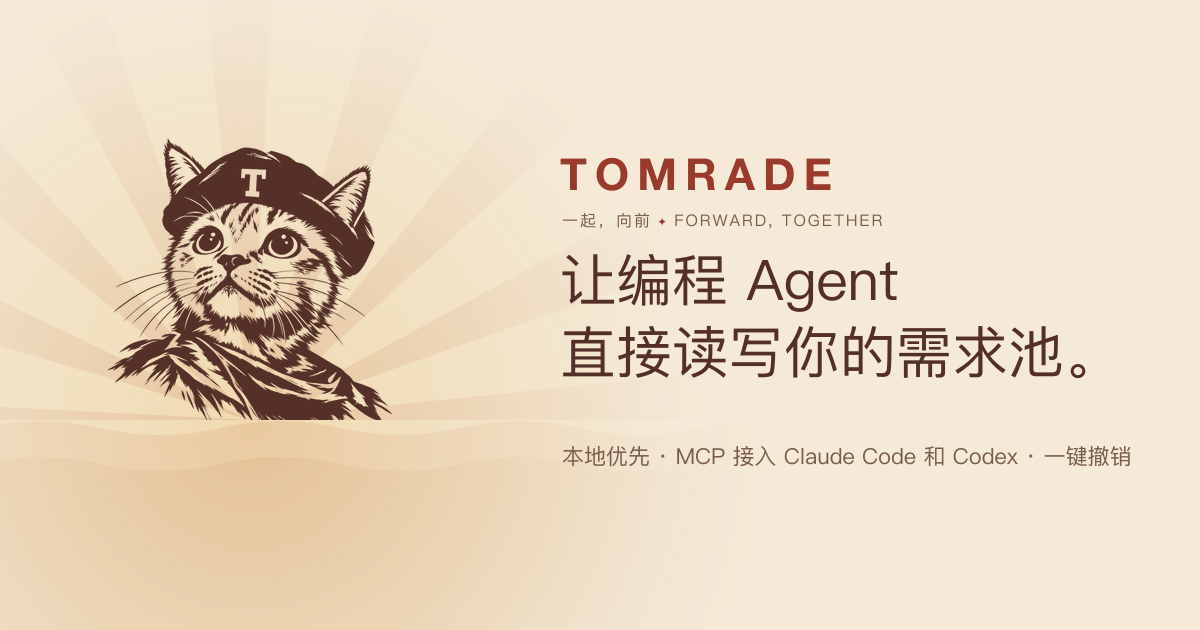
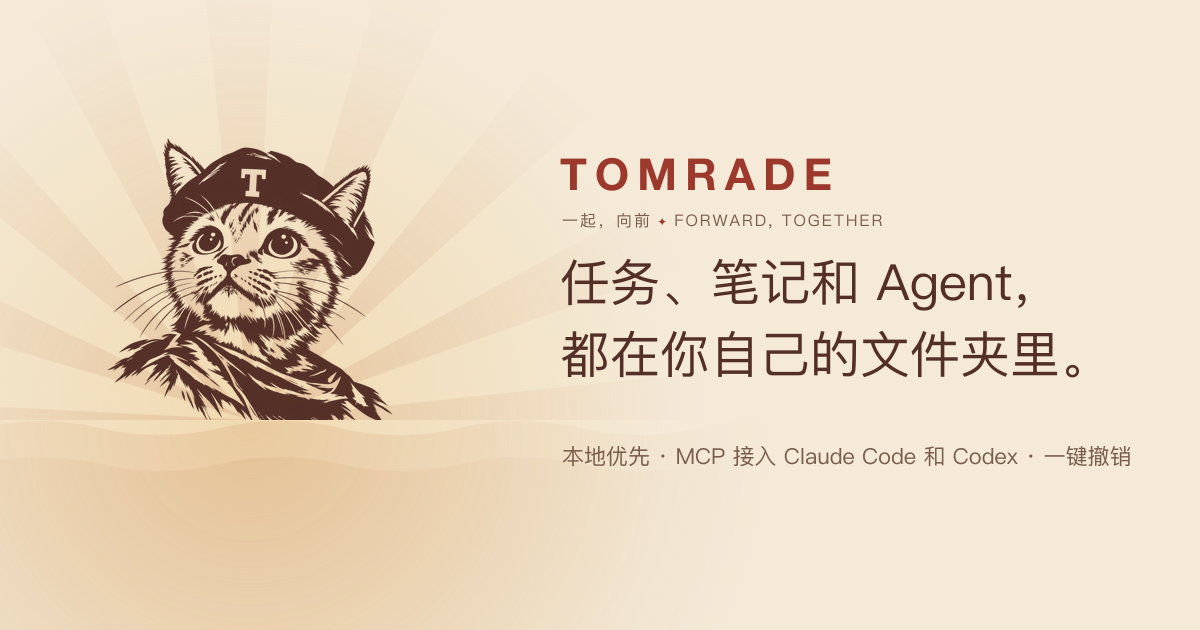
The README follows tomrade.com again: its sections, its wording and its latest images

Changed region(s): [[0.4625, 0.3921, 0.925, 0.6032]]

diff --git a/README.md b/README.md
@@ -1,5 +1,5 @@
 <p align="center">
-  <img src="docs/images/banner.png" alt="Tomrade: the backlog your coding agents can read and write. Local-first, Claude Code and Codex over MCP, undo any run." width="820">
+  <img src="docs/images/banner.png" alt="Tomrade: tasks, notes and agents, in one folder you own. Local-first, Claude Code and Codex over MCP, undo any run." width="820">
 </p>
 
 <p align="center">
@@ -21,9 +21,9 @@
 
 **Tom + comrade.** Tasks, notes and agents, in one folder you own.
 
-Your agents work at **3 a.m.** They read your tickets, edit your notes, and now and then rewrite **everything you own**. Tomrade is the workspace built for them, with **an undo button built for you**.
+Your agents work at **3 a.m.** They read your tickets, edit your notes, and now and then rewrite **everything you own.** Tomrade is the workspace built for them, with **an undo button built for you.**
 
-It's a local-first desktop app for solo makers and tiny teams. Run a codebase, your week, a journal or a shelf of docs from the same place. Say one sentence and the assistant drafts the whole backlog; hand a ticket to Claude Code, Codex or whichever coding agent you already use; undo any agent run in one click.
+It's a local-first workspace for solo makers and tiny teams. Run a codebase, your week, a journal or a shelf of docs from the same app. Say one sentence and the assistant drafts the whole backlog; hand a ticket to Claude Code, Codex or whichever coding agent you use; undo any agent run in one click.
 
 <p align="center">
   <img src="docs/images/board.png" alt="Tomrade's board: a sidebar of views and workstreams, ticket cards in Backlog and To Do columns, and the assistant panel on the right." width="900">
@@ -32,29 +32,85 @@ It's a local-first desktop app for solo makers and tiny teams. Run a codebase, y
 > [!NOTE]
 > **Preview.** Until 1.0, Tomrade is in development and testing: things change from week to week and you will hit rough edges. Your projects are plain folders on your own disk, so back up the ones that matter.
 
+## Not just for code
+
+Every project is a board plus a folder of files. Connect it to a repository, or fill it with nothing but your week.
+
+- **Ship software.** Talk a feature into tickets sized for one pull request, then let Claude Code or Codex build each one on its own branch.
+- **Run your week.** Errands, chores and plans on a board or a table. Brain-dump to the assistant and it sorts the mess into tasks.
+- **Keep a journal.** Today's note opens a dated page in your Journal folder. Tag the days and link them with `[[wiki links]]`.
+- **Write docs.** Markdown with a live preview, backlinks and full-text search. Every save is versioned and can sync to a GitHub repo.
+
 ## What's in the box
 
-**🗣 From a sentence to a pull request.** Describe what you want in plain words. The assistant asks what it needs to know, drafts epics and features sized for one PR, checks them against what already exists, and points out what's missing. The whole tree lands in one run. Press **Start** on a ticket and your own Claude Code, Codex, Gemini CLI or OpenCode picks it up on its own branch.
+**🗣 From a sentence to a pull request.** Talk, plan, apply, build. Describe what you want in plain words and the assistant asks what it needs to know. It drafts epics and features sized for one PR, checks them against what already exists, and points out what's missing. The whole tree lands in one run. Press **Start** on a ticket and your own Claude Code, Codex, Gemini CLI or OpenCode picks it up on its own branch, reading and updating the ticket as it works. *Approval queue: none. Vibes: immaculate.*
 
-**⏪ No approval queue. Just undo.** *Approval queues? In this economy?* Agents write straight to the backlog, so nothing waits on you. Every run is grouped and attributed, and when one gets creative (renames "Fix login" to "Rewrite auth from scratch", marks all 14 tickets Urgent), one click puts all of it back. It never happened.
+**⏪ No approval queue. Just undo.** *Approval queues? In this economy?* Agents write straight to the backlog, so nothing waits on you. Every run is grouped and attributed, and when one gets creative (renames "Fix login" to "Rewrite auth from scratch", marks all 14 tickets Urgent), a single click puts all of it back. It never happened. History shows who changed what, run by run.
 
-**🤝 Comrade, not foreman.** Other tools want the work done inside them. Tomrade goes both ways: hand a ticket out with Start, or keep working in the Claude Code or Codex you've already tuned, in your own terminal, and run `/tomrade:sync` (`$tomrade-sync` in Codex) to bring the session back. Git keeps score: name `TOM-42` in a branch and the ticket follows it to Doing, Verifying and Done. Work without a ticket is fine, and nothing nags you to file one.
+**🖥 The terminal, right next to the board.** *Alt-Tab cardio: cancelled.* Run Claude Code, Codex or a plain shell in Tomrade's own Terminal window, one click from the backlog.
 
-**🖥 The terminal, next to the board.** *Alt-Tab cardio: cancelled.* A Terminal window built on [herdr](https://herdr.dev) runs your agents in split panes, each pane tied to its ticket, each bar saying Running, Needs you or Idle. Quit Tomrade and your agents keep working.
+- **Split it your way:** `⌘D` to the right, `⇧⌘D` down. Save a layout you like and open every new window with it.
+- **Sessions connect on their own.** Start a ticket and it opens in a pane; when an agent in a plain terminal claims a ticket, that pane becomes its session.
+- **See who needs you.** Each pane's bar says Running, Needs you or Idle, and Continue nudges a session on without leaving the window.
+- **Nothing gets lost.** Quit Tomrade and your agents keep working; restart herdr and the layout comes back, every agent resuming its conversation.
 
-**📓 A notebook beside your backlog.** Every project carries a folder of files: Markdown with a live preview, `[[wiki links]]` and backlinks, `#tags`, full-text search, a dated journal page for today. Every save is versioned and can sync to a GitHub repo. Attach files to tickets as deliverables.
+The window is built on [herdr](https://herdr.dev), the open-source agent multiplexer. On Windows herdr can't attach directly yet, so a ticket you start runs in the assistant panel, in herdr's own client or in Windows Terminal, and its status still comes back to the board.
 
-**💬 Ask it anything in Tomrade.** The assistant isn't only a planner. It moves tickets, turns five journal entries into a weekly review, switches you to dark mode, draws an architecture diagram with the built-in [Archify](https://github.com/tt-a1i/archify), or helps you pick a name for your corgi. Every change lands in History, where ⌘Z takes it back.
+**📓 A notebook that lives next to your board.** Each project carries a folder of files: Markdown, HTML, images, anything. `[[Wiki links]]` and backlinks that follow a rename, `#tags`, full-text search across every file, and today's journal page in one click. Read, Edit or Split, with the preview scrolling in step. Every save is versioned and can sync to a GitHub repo. Attach files to tickets as deliverables, and let agents search your notes.
 
-**📱 Away from your desk? Message it.** *Toilet-break productivity unlocked.* Connect a bot in Discord, Slack, Telegram, Feishu / Lark, DingTalk or WeCom and the assistant answers from your phone: same project, same tools. Tomrade talks to each chat app directly, with no server of ours in between.
+**💬 Ask it about anything in Tomrade.** It isn't only a backlog planner. *"Put the checkout tickets in To Do"* moves four tickets. *"Turn this week's journal into a weekly review"* reads five entries and saves one, linked back to each day. *"Switch to dark mode, and put the cat on my desktop."* Done. And when there's nothing to do, it's happy to just talk: Biscuit or Mochi for the corgi? *No tools. No changes. Just vibes.* Every change it makes is attributed and lands in History, where ⌘Z takes it back: tickets, files and settings alike.
 
-**📥 The backlog has a bouncer.** GitHub issues (and any source a plugin adds) wait in the project's inbox. The assistant proposes what each one is (a new ticket, a bug you already have, a duplicate) and drafts the reply. You click Confirm.
+<img src="docs/images/im.webp" alt="A Discord chat on a phone: a question to the Tomrade bot, the tools it calls, and its answer." width="220" align="right">
 
-**🧩 Everything is a plugin, including yours.** The database, the tool registry, the MCP server and the assistant are each a plugin you can swap out. Write your own against the Apache-2.0 SDK and ship it under any license, or describe it in Plugin Studio and let an agent write and test it; it loads only after you confirm the build. Official plugins live in [tomrade-plugins](https://github.com/haoyuant/tomrade-plugins).
+**📱 Away from your desk? Message it.** *Toilet-break productivity unlocked.* Connect a bot in Discord, Slack, Telegram, Feishu / Lark, DingTalk or WeCom, and the assistant answers in direct messages and @mentions: the same project, the same tools, from your phone.
 
-**🐱 Your agents have a supervisor now. It's a cat.** The desktop pet mirrors what your agent is doing: napping, thinking, LOCKED IN, staring at you until you answer its question, smug for exactly three seconds when a run succeeds, crying for three seconds when one fails so you don't have to. Not a cat person? Bring your own pet.
+- Message it like anyone else. 👀 means it's on it.
+- The tools it calls tick off as it works.
+- When it needs your call, you get buttons and menus.
+- `/new`, `/stop` and `/status` run its sessions.
 
-**🍅 Lock in. Don't forget your Kegels.** A tomato in the status bar: 25 minutes of focus, 5 off. The alert can be any audio file. What you do with those 5 minutes is between you and your pelvic floor.
+Tomrade on your computer talks to each chat app directly, with no server of ours in between. Bot credentials stay encrypted on that computer. Using something else? An IM is a plugin: write an adapter, or have an agent build one in Plugin Studio.
+
+<br clear="right">
+
+**📥 The backlog has a bouncer now.** Feedback waits at the door, not in your backlog. GitHub issues (and any source a plugin adds, like your support mail or a feedback form) land in the project's inbox first. The assistant proposes what each one is (a new ticket, a bug you already have, or a duplicate) and drafts the reply. You click Confirm. A repeat is counted on its ticket, so you can see what people keep running into, and whoever wrote hears back where they wrote.
+
+**🤝 Comrade, not foreman.** Work where you like; Tomrade keeps track. Other tools want the work done inside them, or only ever hand it out. Tomrade goes both ways: press Start to hand a ticket out, or keep working in the Claude Code or Codex you've already tuned, in your own terminal, and run `/tomrade:sync` (`$tomrade-sync` in Codex) to bring the session back. Git keeps score: name `TOM-42` in a branch or a commit and the ticket follows it to Doing, Verifying and Done. Never required: work with no ticket stays yours, and nothing asks you to file one first.
+
+**✏ Draw it in one sentence.** [Archify](https://github.com/tt-a1i/archify) comes built in. Ask the assistant, Claude Code or Codex for an architecture, workflow, sequence, data-flow or lifecycle diagram, and it lands in the conversation as a live page you can pan, zoom, trace and present. Every render is checked for overlapping boxes, crossed wires and clipped labels, and the diagram keeps its JSON source, so a follow-up edits it instead of starting over.
+
+<p align="center">
+  <a href="https://tomrade.com/diagrams/workflow/"><img src="docs/images/archify.png" alt="Workflow diagram in four lanes: one sentence goes to the assistant, which creates a backlog; you press Start, Claude Code or Codex opens a pull request, and the ticket is Done once it merges. A safety-net lane holds Undo run and Write refused." width="820"></a><br>
+  <sub>"Draw how a ticket gets from one sentence to a merged PR." Rendered by the Archify that ships with Tomrade. <a href="https://tomrade.com/diagrams/workflow/">Open it live</a>.</sub>
+</p>
+
+**🧰 Also in the box.** Each one is a plugin; switch any of them off in Settings › Manage plugins.
+
+- **Dependency graph:** see what blocks what, with a badge on every ticket still waiting on unfinished work.
+- **Code link:** each ticket knows its branches, worktrees and pull requests. Its status follows git.
+- **MCP client:** connect any MCP server over stdio or HTTP. Its tools join the built-in ones, for the assistant and every agent.
+- **Files on GitHub:** share a project's files through a GitHub repository, found or created for you.
+- **Scripted engine:** a menu of workflows that runs with no model at all. Offline, keyless, repeatable.
+- **Plugin Studio:** describe the plugin you want. An agent writes and tests it, and it loads only after you confirm the build.
+
+**🧩 Everything is a plugin, including yours.** The database, the tool registry, the MCP server and the assistant are each a plugin you can swap out. Write your own against the Apache-2.0 SDK and ship it under any license, or ask an agent to write one for you in Plugin Studio. Register a tool once and it appears in the assistant and on the MCP server. Official plugins live in [tomrade-plugins](https://github.com/haoyuant/tomrade-plugins).
+
+**🍅 Lock in. Don't forget your Kegels.** *Your pelvic floor is calling.* A tomato lives in the status bar: 25 minutes of focus, 5 off, and a long break every fourth round. A desktop widget floats over every window and lets clicks through; your boss walks by and sees a clock. The alert can be any audio file. We recommend recording yourself saying "Kegels." Too comfy to click? Tell the assistant "start a pomodoro" and it presses the button. *Disclaimer: the timer reminds you to take a break. The clenching is on you.*
+
+**🐱 Your agents have a supervisor now. It's a cat.** The pet lives on your desktop and mirrors what your agent is doing, so one glance tells you whether it needs you. No tab-switching, no notification spam. Several agents at once? It shows the one that needs you most.
+
+<table>
+  <tr>
+    <td align="center"><img src="docs/images/pet/idle.webp" alt="The cat asleep." width="120"><br><sub><b>zzz</b><br>Off the clock</sub></td>
+    <td align="center"><img src="docs/images/pet/thinking.webp" alt="The cat thinking." width="120"><br><sub><b>???</b><br>Thinking…</sub></td>
+    <td align="center"><img src="docs/images/pet/working.webp" alt="The cat typing furiously." width="120"><br><sub><b>LOCKED IN</b><br>Galaxy-brain mode</sub></td>
+    <td align="center"><img src="docs/images/pet/waiting.webp" alt="The cat staring at you." width="120"><br><sub><b>ANSWER ME!</b><br>Look in my eyes</sub></td>
+    <td align="center"><img src="docs/images/pet/success.webp" alt="The cat looking smug." width="120"><br><sub><b>EZ</b><br>Insufferable</sub></td>
+    <td align="center"><img src="docs/images/pet/error.webp" alt="The cat crying." width="120"><br><sub><b>EMOTIONAL DAMAGE</b><br>Something broke</sub></td>
+  </tr>
+</table>
+
+Not a cat person? Bring your own pet: in Settings › Pet, give each mood its own GIF, WebP, PNG or JPEG. Moods you skip keep Nini, the built-in cat.
 
 <table>
   <tr>
@@ -72,15 +128,16 @@ It's a local-first desktop app for solo makers and tiny teams. Run a codebase, y
 Built so agents can move fast without stepping on you.
 
 - **Your folder is the truth.** Each project is a folder of plain text you can read, diff and back up. SQLite is only a cache. *Delete the cache. It comes back. We'll wait.*
-- **Human work comes first.** Every AI write records who made it and the version it read. Fields you lock stay locked, and a write based on a stale read is refused, whoever sends it. The one write undo can't reach, a permanent delete, is human-only.
-- **One set of tools, every surface.** The in-app assistant and the agents in your editor call the same tools. Register one once and it shows up in both.
+- **Human work comes first.** Every AI write is attributed and versioned. Fields you lock stay locked, and a write based on a stale read is refused, whoever sends it. The one write undo can't reach, a permanent delete, is human-only.
+- **One set of tools, every surface.** The in-app assistant and the agents in your editor call the same tools. Add one once and it shows up everywhere.
 - **Bring your own model.** DeepSeek, Anthropic, OpenAI, Gemini, Kimi, OpenRouter, any OpenAI-compatible endpoint or a local model, with more providers as [plugins](https://github.com/haoyuant/tomrade-plugins). Or let your own Claude Code or Codex conduct, on your own login.
-- **It asks before it acts.** A shell command waits for your Allow or Deny. API keys, MCP servers and command lines are never an agent's to change.
+- **It asks before it acts.** A shell command waits for your Allow once, Allow for this turn or Deny. A coding agent runs with the permissions you pick when you press Start. API keys, MCP servers and command lines are never an agent's to change.
+- **Boards, tables and graphs.** Workstreams, custom fields and saved views. Keyboard-first, with a palette for everything.
 - **Local first, account optional.** Choose "Use without an account" and everything stays on this machine. An account only syncs your preferences and project list, never project content. Project content leaves your machine only if you connect a model provider or a git remote.
 
 ## Install
 
-Get the installer for your system from **[tomrade.com/download](https://tomrade.com/download)** or the [GitHub releases](https://github.com/haoyuant/tomrade/releases).
+Free to use, on macOS, Windows and Linux. Get the installer for your system from **[tomrade.com/download](https://tomrade.com/download)** or the [GitHub releases](https://github.com/haoyuant/tomrade/releases).
 
 | System | Installer | Notes |
 |---|---|---|
@@ -90,13 +147,17 @@ Get the installer for your system from **[tomrade.com/download](https://tomrade.
 
 An installed copy checks for updates and installs one only when you say so. The interface speaks English, 简体中文, 繁體中文, 日本語, Español, Deutsch, Français and Русский.
 
-Then: create a project, tell the assistant in one sentence what you're up to, and, if you like, connect your agents.
+Then:
+
+1. Sign in, or choose "Use without an account".
+2. Create a project and tell the assistant, in one sentence, what you're up to.
+3. Optionally, connect your agents.
 
 ## Connect your agents
 
 Tomrade runs an MCP server at `http://127.0.0.1:19090/mcp`. It listens on 127.0.0.1 only; nothing is exposed to the network.
 
-**The easy way:** in a project, open the repository a workstream stands for and connect coding agents, either **on this machine only** or **for the team** as a pull request. Tomrade writes the config for Claude Code, Codex, Cursor, Gemini CLI, OpenCode, WorkBuddy and Pi, plus the notes that tell them how to claim a ticket and sync back. The details are in [`docs/agent-connections.md`](docs/agent-connections.md).
+**The easy way:** connect a repository once. In a project, open the repository a workstream stands for and connect coding agents, either **on this machine only** or **for the team** as a pull request with the MCP config and agent notes, so every agent that works in it finds Tomrade. Tomrade writes the config for Claude Code, Codex, Cursor, Gemini CLI, OpenCode, WorkBuddy and Pi, plus the notes that tell them how to claim a ticket and sync back. The details are in [`docs/agent-connections.md`](docs/agent-connections.md).
 
 **By hand**, for any agent that speaks Streamable HTTP MCP:
 
@@ -166,19 +227,25 @@ Issues and pull requests are welcome. [`CONTRIBUTING.md`](CONTRIBUTING.md) has t
 
 Tomrade is built with Tomrade. The maintainer's backlog lives in a Tomrade project, and the agent config checked into this repository (`.mcp.json`, `.codex/`, `.cursor/`, `.gemini/`, `CLAUDE.md`, `AGENTS.md`) points at it. Without that project on your machine the `tomrade` server simply isn't there, and your agent carries on as usual. Ticket keys in commit messages (`TOM-42: …`) are the maintainer's habit; you don't need one.
 
+Built with help: [the people who shaped Tomrade](https://tomrade.com/thanks/) with their ideas, their testing and their patience with early builds.
+
 ## FAQ
 
-**Is it only for programmers?** No. The board, the assistant and Files work for a household, a trip, a thesis or a journal. Coding agents join in when a project has a repository and stay out of the way when it doesn't.
+**Is it only for programmers?** No. The board, the assistant and Files work for any project: a household, a trip, a thesis, a journal. Coding agents join in when a project has a repository and stay out of the way when it doesn't.
 
 **Where is my data?** In one plain folder per project, on your machine.
 
-**Can I turn the cat off?** Yes, in Settings, or unload the pet plugin entirely. The cat will not take it personally. Probably.
+**Do I need an account?** No. Choose "Use without an account" and everything stays on this machine. Signing in only keeps your preferences and project list in sync across computers; tickets, files and code stay in your project folders.
 
-**Is there a phone app?** Not yet. Until then, message the assistant from your chat app. It answers as long as Tomrade runs on your computer, which it can keep doing in the background with every window closed. Pulling an all-nighter is the computer's job, not yours.
+**Can I turn the cat off?** Yes, in Settings. You can also swap it for a pet of your own, or unload the pet plugin entirely. The cat will not take it personally. Probably.
+
+**Is there a phone app?** It's on the way. Can't wait? Message the assistant from Discord, Slack, Telegram, Feishu, DingTalk or WeCom today. It answers as long as Tomrade runs on your computer, which it can keep doing in the background with every window closed. Pulling an all-nighter is the computer's job, not yours.
+
+**Will the pomodoro remind me to do my Kegels?** Officially, it only reminds you to take a break. Unofficially, the alert can be any audio file you like. You know what to do.
 
 ## License
 
-[Apache License 2.0](LICENSE): the app, every package and the plugin SDK alike.
+Free to use. [Apache License 2.0](LICENSE): the app, every package and the plugin SDK alike.
 
 - Use it, change it and redistribute it, at home or at work, commercially too.
 - Plugins are yours. Ship them under any license, commercial ones included.

diff --git a/README.zh-CN.md b/README.zh-CN.md
@@ -1,5 +1,5 @@
 <p align="center">
-  <img src="docs/images/banner-zh.png" alt="Tomrade：你的编程 Agent 能读能写的需求池。本地优先，通过 MCP 接入 Claude Code 和 Codex，任何一次运行都能撤销。" width="820">
+  <img src="docs/images/banner-zh.png" alt="Tomrade：任务、笔记和 Agent，都在你自己的文件夹里。本地优先，通过 MCP 接入 Claude Code 和 Codex，一键撤销。" width="820">
 </p>
 
 <p align="center">
@@ -23,7 +23,7 @@
 
 你的 Agent **凌晨三点**还在干活。它读工单、改笔记，偶尔把**你所有的东西**都重写一遍。Tomrade 是为它们造的工作区，顺便**给你配了一个撤销键**。
 
-这是一个为独立创作者和小团队打造的本地优先桌面应用。代码项目、这周的待办、日记、一摞文档，都能在同一个地方管。说一句话，助手就把整个需求池拆好；工单交给 Claude Code、Codex 或你在用的其他编程 Agent 去做；Agent 的任何一次运行都能一键撤销。
+这是一个为独立创作者和小团队打造的本地优先工作区。代码项目、这周的待办、日记、一摞文档，都能在同一个应用里管。说一句话，助手就把整个需求池拆好；工单交给 Claude Code、Codex 或你在用的其他编程 Agent 去做；Agent 的任何一次运行都能一键撤销。
 
 <p align="center">
   <img src="docs/images/board-zh.png" alt="Tomrade 看板：左侧是视图和工作流，中间是待办和进行中的工单卡片，右侧是助手面板。" width="900">
@@ -32,29 +32,85 @@
 > [!NOTE]
 > **测试版。** 1.0 之前 Tomrade 还在开发测试中，功能每周都在变，难免有不完善的地方。你的项目就是自己硬盘上的普通文件夹，重要的请自行备份。
 
+## 不只是写代码
+
+每个项目都是一块看板加一个文件夹。可以连上代码仓库，也可以只装下你这一周的生活。
+
+- **做软件。** 把一个功能聊成一个个 PR 大小的工单，再交给 Claude Code 或 Codex，各自在独立分支上实现。
+- **管日常。** 跑腿、家务、出行计划，放进看板或表格。把脑子里的一团乱麻倒给助手，它帮你理成待办。
+- **写日记。** 「今日笔记」会在日记文件夹里打开当天的一页。给日子打上标签，用 `[[双链]]` 把它们串起来。
+- **写文档。** Markdown 实时预览、反向链接、全文搜索。每次保存都有版本，还能同步到 GitHub 仓库。
+
 ## 盒子里有什么
 
-**🗣 从一句话到一个 PR。** 用大白话说出你想要什么。助手会追问必要的细节，拆成史诗和一个 PR 就能完成的功能，对照已有内容去重，并指出还缺什么。整棵需求树一次写入。在工单上点「开始」，你自己的 Claude Code、Codex、Gemini CLI 或 OpenCode 就会在独立分支上接手。
+**🗣 从一句话到一个 PR。** 聊、拆、落、做。用大白话说出你想要什么，助手会追问必要的细节，拆成史诗和一个 PR 就能完成的功能，对照已有内容去重，并指出还缺什么。整棵需求树一次写入。在工单上点「开始」，你自己的 Claude Code、Codex、Gemini CLI 或 OpenCode 就会在独立分支上接手，边写代码边更新工单。*审批队列：无。效率：拉满。*
 
-**⏪ 不设审批，只留撤销。** *审批队列？都什么年代了。* Agent 直接写进需求池，不用等你点头。每次运行都打包记账、注明出处；哪次它放飞自我了（把「修复登录」改名成「从零重写认证」，顺手把 14 张工单全标成紧急），一键整体撤回，就当无事发生。
+**⏪ 不设审批，只留撤销。** *审批队列？都什么年代了。* Agent 直接写进需求池，不用等你点头。每次运行都打包记账、注明出处；哪次它放飞自我了（把「修一下登录」改成「彻底重写鉴权」，顺手把 14 张工单全标成紧急），一键整体撤回，就当无事发生。历史面板按运行列出谁改了什么。
 
-**🤝 是战友，不是包工头。** 别的工具要么让你只能在它里面干活，要么只会把活派出去。Tomrade 两头都通：点「开始」把工单派出去；或者接着在你调教好的 Claude Code、Codex 里、在你自己的终端里干，完事敲一句 `/tomrade:sync`（Codex 里是 `$tomrade-sync`）把这次会话同步回来。git 负责记分：分支名里带上 `TOM-42`，工单就跟着它走到进行中、验证中、已完成。没有工单的活也照干不误，没人逼你先建工单。
+**🖥 终端，就开在看板旁边。** *告别在十个终端窗口间反复横跳。* 在 Tomrade 自带的终端窗口里直接跑 Claude Code、Codex 或普通 shell，开发和看板不用再来回切。
 
-**🖥 终端，就开在看板旁边。** *告别在十个终端窗口间反复横跳。* 基于 [herdr](https://herdr.dev) 的终端窗口，分屏跑你的 Agent，每个窗格连着它的工单，标题栏写着「运行中」「需要你」还是「空闲」。退出 Tomrade，Agent 照样接着干。
+- **想怎么分就怎么分：** `⌘D` 向右，`⇧⌘D` 向下。顺手的布局存下来，新窗口直接套用。
+- **会话自己连上。** 开始一个工单，它就出现在一个窗格里；普通终端里的 Agent 一认领工单，这个窗格就成了那张工单的会话。
+- **谁在等你，一眼看清。** 每个窗格的标题栏都标着运行中、需要你还是空闲，点「继续」就能推它一把，不用离开窗口。
+- **什么都不会丢。** 退出 Tomrade，Agent 照样在干；重启 herdr，布局原样回来，每个 Agent 接着之前的对话。
 
-**📓 看板旁边，就是你的笔记本。** 每个项目都自带一个文件夹：Markdown 实时预览、`[[双链]]` 和反向链接、`#标签`、全文搜索、一键打开今天的日记。每次保存都有版本，还能同步到 GitHub 仓库。文件可以挂到工单上当交付物。
+终端窗口基于开源的 Agent 终端复用器 [herdr](https://herdr.dev)。herdr 的直接连接暂不支持 Windows，所以在 Windows 上开始的工单会在助手面板、herdr 自带的客户端或 Windows Terminal 里跑，状态照样同步回看板。
 
-**💬 Tomrade 里的事，都能问它。** 助手不只会拆需求池。它能挪工单、把五篇日记汇总成周报、帮你切到深色模式、用内置的 [Archify](https://github.com/tt-a1i/archify) 画架构图，也能陪你纠结柯基该叫饼干还是麻薯。它做的每处改动都记在历史里，⌘Z 就能撤回。
+**📓 看板旁边，就是你的笔记本。** 每个项目都自带一个文件夹：Markdown、HTML、图片，什么都能放。`[[双链]]` 和反向链接（笔记改名，链接自动跟着改）、`#标签`、覆盖每个文件的全文搜索、一键打开今天的日记。阅读、编辑、分屏三种模式，预览随编辑同步滚动。每次保存都有版本，还能同步到 GitHub 仓库。文件能挂到工单上当交付物，Agent 也能搜索你的笔记。
 
-**📱 人不在电脑前，发消息找它。** *带薪蹲坑，也能派活。* 在 Discord、Slack、Telegram、飞书 / Lark、钉钉或企业微信里接上一个机器人，拿着手机就能用：同一个项目，同一套工具。Tomrade 直接连各家聊天软件，中间没有我们的服务器。
+**💬 Tomrade 里的事，都能问它。** 它不只会拆需求池。*「把结账相关的工单都挪到待办」*，4 张工单就挪好了；*「把这周的日记整理成一份周回顾」*，它读完 5 篇日记，存成一份周回顾，每一天都链回原文；*「换成深色主题，再把猫放到桌面上」*，好了。没活干的时候，陪你聊聊天也行：柯基叫「饼干」还是「麻薯」？*不调工具，不改东西，纯陪聊。* 它做的每处改动都会署名、记进历史，⌘Z 就能撤回：工单、文件、设置都一样。
 
-**📥 需求池门口，有保安了。** GitHub issue（以及插件接入的其他来源）先在项目的收件箱里排队。助手判断每一条是什么：新工单、已有的老问题，还是重复反馈，并拟好回复。你点一下确认就行。
+<img src="docs/images/im-zh.webp" alt="手机上的 Discord 对话：向 Tomrade 机器人提问，它调用的工具，以及它的回答和选项。" width="220" align="right">
 
-**🧩 一切皆插件，包括你写的。** 数据库、工具注册表、MCP 服务、助手，每一块都是可以替换的插件。用 Apache-2.0 授权的 SDK 写你自己的插件，用任何许可证发布；或者在 Plugin Studio 里说出你想要什么，让 Agent 来写、来测，你确认这次构建之后它才会加载。官方插件在 [tomrade-plugins](https://github.com/haoyuant/tomrade-plugins)。
+**📱 人不在电脑前，发消息找它。** *带薪蹲坑，也能派活。* 在 Discord、Slack、Telegram、飞书 / Lark、钉钉或企业微信里接上一个机器人，私信它、在群里 @ 它都行。同一个项目、同一套工具，拿着手机就能用。
 
-**🐱 AI 在打工，猫猫在监工。** 桌宠会演出你的 Agent 正在干什么：摸鱼、思考、超频中、盯着你直到你回答它的问题；跑完了嚣张整整三秒，出错了替你哭三秒，你负责 ⌘Z。不是猫派？换成你自己的桌宠。
+- 像跟人聊天一样发消息，它回个 👀 就是接活了。
+- 它调了哪些工具，一个个打勾给你看。
+- 需要你拍板时，直接给按钮和下拉选项。
+- 用 `/new`、`/stop`、`/status` 开新会话、停下、查状态。
 
-**🍅 专注搬砖，别忘了提肛。** 状态栏里住着一颗番茄：25 分钟专注，5 分钟休息。提示音可以换成任何音频文件。至于这 5 分钟拿来干什么，久坐打工人都懂。
+由你电脑上的 Tomrade 直连各个聊天软件，中间不经过我们的服务器。机器人凭据只加密保存在这台电脑上。用的不在列表里？IM 也是插件：写一个适配器，或者让 Agent 在 Plugin Studio 里替你写。
+
+<br clear="right">
+
+**📥 需求池门口，有保安了。** 反馈先在门口等着，不直接塞进需求池。GitHub issue（以及插件接入的其他来源，比如客服邮箱、反馈表单）先落进项目的收件箱。助手判断每一条是什么：新工单、已有的老问题，还是重复反馈，并拟好回复。你点一下确认就行。同一个问题再被报一次，会记在它的工单上，大家反复踩的坑一眼就看得出；反馈人在哪儿提的，就在哪儿收到回音。
+
+**🤝 是战友，不是包工头。** 活儿在哪干都行，账都记在 Tomrade。别的工具要么让你只能在它里面干活，要么只会把活派出去。Tomrade 两头都通：点「开始」把工单派出去；或者接着在你调教好的 Claude Code、Codex 里、在你自己的终端里干，完事敲一句 `/tomrade:sync`（Codex 里是 `$tomrade-sync`）把这次会话同步回来。git 来记账：分支名或提交信息里写上 `TOM-42`，工单就跟着走到进行中、验证中、已完成。从不强制：没有工单的活照样干，没人逼你先建工单。
+
+**✏ 一句话，画出设计图。** [Archify](https://github.com/tt-a1i/archify) 已经内置。让助手、Claude Code 或 Codex 画一张架构图、流程图、时序图、数据流图或状态图，它会直接出现在对话里：能拖动、缩放、追踪路径，还能全屏演示。每次渲染都自动检查方框不重叠、连线不交叉、文字不截断；保留 JSON 源文件，下次提修改是在原图上改，不用推倒重画。
+
+<p align="center">
+  <a href="https://tomrade.com/zh/diagrams/workflow/"><img src="docs/images/archify-zh.png" alt="四条泳道的流程图：一句话交给助手，拆成需求池；你点「开始」，Claude Code 或 Codex 提交 PR，合并后工单变为已完成。安全网泳道里是「撤销运行」和「写入被拒」。" width="820"></a><br>
+  <sub>「画一下：一张工单怎么从一句话走到合并的 PR。」由 Tomrade 自带的 Archify 渲染。<a href="https://tomrade.com/zh/diagrams/workflow/">打开可交互版</a>。</sub>
+</p>
+
+**🧰 盒子里还有。** 每一个都是插件，不需要的话，在「设置 › 管理插件」里关掉即可。
+
+- **依赖图：** 谁卡着谁，一目了然；还在等未完成工作的工单都会挂上标记。
+- **代码关联：** 每张工单都知道自己的分支、worktree 和 PR，状态跟着 git 走。
+- **MCP 客户端：** 通过 stdio 或 HTTP 连接任意 MCP 服务，它的工具和内置工具放在一起，助手和每个 Agent 都能用。
+- **文件同步到 GitHub：** 项目文件通过 GitHub 仓库共享，仓库可以帮你找到或新建。
+- **脚本引擎：** 一份工作流菜单，完全不用模型：离线、免密钥、结果可复现。
+- **Plugin Studio：** 说出你想要的插件，Agent 来写、来测；你确认这次构建之后，它才会加载。
+
+**🧩 一切皆插件，包括你写的。** 数据库、工具注册表、MCP 服务、助手，每一块都是可以替换的插件。用 Apache-2.0 授权的 SDK 写你自己的插件，用任何许可证发布；也可以让 Agent 在 Plugin Studio 里替你写。注册一次工具，助手和 MCP 服务里就都有了。官方插件在 [tomrade-plugins](https://github.com/haoyuant/tomrade-plugins)。
+
+**🍅 专注搬砖，别忘了提肛。** *你的盆底肌来电了。* 状态栏里住着一颗番茄：25 分钟专注，5 分钟休息，每 4 轮来一次长休息。桌面浮窗悬浮在所有窗口上面，不挡点击；老板路过，只看见一个钟。提示音可以换成任何音频文件，建议亲自录一句「提肛」，效果拔群。懒得点？跟助手说一声「开个番茄钟」，它替你按。*免责声明：番茄钟只负责提醒你休息，提不提肛全凭自觉。*
+
+**🐱 AI 在打工，猫猫在监工。** 桌宠待在你的桌面上，Agent 在干什么它就演什么。瞄一眼就知道要不要你出手，不用切窗口，也不用被通知轰炸。同时跑好几个 Agent？它只演最需要你的那个。
+
+<table>
+  <tr>
+    <td align="center"><img src="docs/images/pet/idle.webp" alt="猫在睡觉。" width="120"><br><sub><b>zzz</b><br>摸鱼中</sub></td>
+    <td align="center"><img src="docs/images/pet/thinking.webp" alt="猫在思考。" width="120"><br><sub><b>？？？</b><br>思考中…</sub></td>
+    <td align="center"><img src="docs/images/pet/working.webp" alt="猫在疯狂敲键盘。" width="120"><br><sub><b>超频中</b><br>火力全开</sub></td>
+    <td align="center"><img src="docs/images/pet/waiting.webp" alt="猫盯着你。" width="120"><br><sub><b>Tell me why！</b><br>Look in my eyes!</sub></td>
+    <td align="center"><img src="docs/images/pet/success.webp" alt="猫一脸嚣张。" width="120"><br><sub><b>就这？</b><br>嚣张</sub></td>
+    <td align="center"><img src="docs/images/pet/error.webp" alt="猫在哭。" width="120"><br><sub><b>我哭死</b><br>破防了</sub></td>
+  </tr>
+</table>
+
+不是猫派？换成你自己的桌宠：在「设置 › 宠物」里给每种心情配一张 GIF、WebP、PNG 或 JPEG。没配图的心情继续用内置的尼尼。
 
 <table>
   <tr>
@@ -72,15 +128,16 @@
 让 Agent 跑得快，又不踩到你。
 
 - **文件夹就是真相。** 每个项目都是一个纯文本文件夹，可读、可 diff、可备份。SQLite 只是缓存。*缓存删了？没事，它自己会回来。*
-- **人的工作优先。** 每次 AI 写入都记录是谁写的、基于哪个版本。你锁定的字段不会被覆盖，基于过期数据的写入一律拒绝，不管是谁发的。撤销唯一够不着的写入是永久删除，所以只有人能做。
-- **一套工具，处处可用。** 应用内的助手和编辑器里的 Agent 调用的是同一套工具。注册一次，两边都能用。
+- **人的工作优先。** 每次 AI 写入都记录出处和版本。你锁定的字段不会被覆盖，基于过期数据的写入一律拒绝，不管是谁发的。撤销唯一够不着的写入是永久删除，所以只有人能做。
+- **一套工具，处处可用。** 应用内的助手和编辑器里的 Agent 调用的是同一套工具。加一次工具，所有地方都能用。
 - **模型自己选。** DeepSeek、Anthropic、OpenAI、Gemini、Kimi、OpenRouter、任何 OpenAI 兼容接口或本地模型都行，更多厂商以[插件](https://github.com/haoyuant/tomrade-plugins)形式提供。也可以让你自己的 Claude Code 或 Codex 来主导，用你自己的登录。
-- **动手之前，先问你。** Shell 命令会等你选允许或拒绝。API Key、MCP 服务器和命令行设置，永远轮不到 Agent 来改。
+- **动手之前，先问你。** Shell 命令会等你选「允许一次」「本轮都允许」或「拒绝」。编程 Agent 按你点「开始」时选的权限运行。API Key、MCP 服务器和命令行设置，永远轮不到 Agent 来改。
+- **看板、表格、依赖图。** 工作流、自定义字段和保存的视图。键盘优先，所有操作都能从命令面板找到。
 - **本地优先，账号可选。** 选「不登录，本地使用」，一切都只在这台电脑上。登录账号只同步偏好设置和项目列表，从不碰项目内容。只有你接了模型服务或 git 远程仓库，项目内容才会离开你的电脑。
 
 ## 安装
 
-在 **[tomrade.com/zh/download](https://tomrade.com/zh/download)** 或 [GitHub Releases](https://github.com/haoyuant/tomrade/releases) 下载对应系统的安装包。
+免费使用，支持 macOS、Windows 和 Linux。在 **[tomrade.com/zh/download](https://tomrade.com/zh/download)** 或 [GitHub Releases](https://github.com/haoyuant/tomrade/releases) 下载对应系统的安装包。
 
 | 系统 | 安装包 | 说明 |
 |---|---|---|
@@ -90,13 +147,17 @@
 
 装好的 Tomrade 会检查更新，你同意了才安装。界面支持 English、简体中文、繁體中文、日本語、Español、Deutsch、Français 和 Русский。
 
-然后：建个项目，用一句话告诉助手你在忙什么；想的话，再接上你的 Agent。
+然后：
+
+1. 登录，或者选「不登录，本地使用」。
+2. 新建一个项目，用一句话告诉助手你在忙什么。
+3. （可选）接入你的 Agent。
 
 ## 接入你的 Agent
 
 Tomrade 在本机运行一个 MCP 服务，地址是 `http://127.0.0.1:19090/mcp`。只监听 127.0.0.1，不对外网暴露。
 
-**省事的办法：** 在项目里打开工作流对应的代码仓库，连接编程 Agent，可以选**仅本机**，也可以选**为团队**（开一个 PR）。Tomrade 会替 Claude Code、Codex、Cursor、Gemini CLI、OpenCode、WorkBuddy 和 Pi 写好配置，再附上一份说明，告诉它们怎么认领工单、怎么同步回来。细节见 [`docs/agent-connections.md`](docs/agent-connections.md)。
+**省事的办法：** 仓库只需连接一次。在项目里打开工作流对应的代码仓库，连接编程 Agent，可以选**仅本机**，也可以选**为团队**：Tomrade 会提一个 PR，带上 MCP 配置和给 Agent 的说明，之后在这个仓库里干活的 Agent 都能找到 Tomrade。Claude Code、Codex、Cursor、Gemini CLI、OpenCode、WorkBuddy 和 Pi 的配置它都会写好，再附上一份说明，告诉它们怎么认领工单、怎么同步回来。细节见 [`docs/agent-connections.md`](docs/agent-connections.md)。
 
 **手动配置**，适用于任何支持 Streamable HTTP MCP 的 Agent：
 
@@ -166,19 +227,25 @@ pnpm --filter @tomrade/desktop package   # 打安装包：DMG/ZIP、NSIS、AppIm
 
 Tomrade 是用 Tomrade 开发的。维护者的需求池放在一个 Tomrade 项目里，仓库里提交的 Agent 配置（`.mcp.json`、`.codex/`、`.cursor/`、`.gemini/`、`CLAUDE.md`、`AGENTS.md`）指向的就是它。你的电脑上没有那个项目的话，`tomrade` 服务就是不存在，你的 Agent 照常干活。提交信息里的工单号（`TOM-42: …`）是维护者的习惯，你不需要。
 
+感谢一路同行的人：[这些人](https://tomrade.com/zh/thanks/)用他们的想法、测试和对早期版本的耐心，塑造了今天的 Tomrade。
+
 ## 常见问题
 
-**只给程序员用吗？** 不是。看板、助手和文件，管家务、旅行、论文、日记都行。项目连了代码仓库，编程 Agent 才会加入；没连，它们就不掺和。
+**只给程序员用吗？** 不是。看板、助手和文件对任何项目都适用：家务、旅行、论文、日记都行。项目连了代码仓库，编程 Agent 就能上手；没连，它们也不会来打扰你。
 
 **数据存在哪？** 每个项目一个普通文件夹，就在你的电脑上。
 
-**能把猫关掉吗？** 能，在设置里关，或者干脆卸载桌宠插件。猫不会往心里去的。大概吧。
+**需要注册账号吗？** 不需要。选「不登录，本地使用」，一切都只留在这台电脑上。登录只是为了在几台电脑之间同步偏好设置和项目列表；工单、文件和代码都留在你的项目文件夹里。
 
-**有手机 App 吗？** 还没有。在那之前，从聊天软件给助手发消息就行。只要电脑上的 Tomrade 开着它就会回，所有窗口都关了也能在后台接着跑。熬夜是电脑的事，不是你的。
+**能把猫关掉吗？** 能，在设置里关。也可以换成你自己做的桌宠，或者把桌宠插件整个卸载。猫不会往心里去的，大概。
+
+**有手机 App 吗？** 在路上了。等不及的话，现在就能在 Discord、Slack、Telegram、飞书、钉钉或企业微信里给助手发消息。只要电脑上的 Tomrade 在跑，它就会回；关掉所有窗口，它也能在后台接着跑。通宵是电脑的事，不是你的事。
+
+**番茄钟会提醒我提肛吗？** 官方口径：它只提醒你休息。非官方口径：提示音可以换成任意音频文件。懂的都懂。
 
 ## 许可证
 
-[Apache License 2.0](LICENSE)：应用、所有包和插件 SDK 都一样。
+免费使用，[Apache License 2.0](LICENSE) 开源：应用、所有包和插件 SDK 都一样。
 
 - 随便用、随便改、随便再分发，在家在公司都行，商用也行。
 - 插件归你。用什么许可证发布都可以，包括商业许可证。
